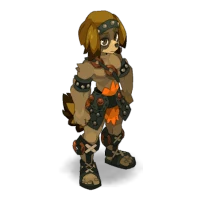
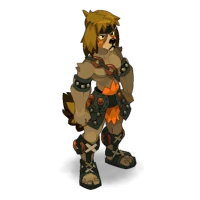
Choix de la tête à la création du héros ; têtes de l'Ouginak masculin triées
- Écran de départ et recrutement : une rangée « Tête » sous Apparence (toutes les classes sauf le Forgelance), le héros créé garde la tête choisie, et le panneau de la classe la montre.
- Ouginak masculin : retrait des 3 têtes féminines (3505, 3509, 3510) mélangées aux têtes masculines ; images locales recopiées.
- sw.js : cache des images media-v5.

Claude-Session: https://claude.ai/code/session_015qLdJVa5fZSSRyhreSRigB

diff --git a/js/looks.js b/js/looks.js
@@ -1,7 +1,7 @@
 /* idlus — apparences des héros (3.1)
    Rendus officiels des apparences DOFUS (corps de classe, têtes, couleurs) + correspondances objet → apparence établies par idlus. */
 (function (root) {
-  const CLASS_LOOKS = {"feca":{"m":{"body":10,"heads":[2012,2013,2014,2015,2016,2017,2018,2019],"colors":[15047528,7814953,14185518,4809554,5319189]},"f":{"body":11,"heads":[2020,2021,2022,2023,2024,2025,2026,2027],"colors":[15047528,7814953,14185518,4809554,5319189]}},"osa":{"m":{"body":20,"heads":[2028,2029,2030,2031,2032,2033,2034,2035],"colors":[14325094,14732959,3572096,4800822,16755757]},"f":{"body":21,"heads":[2036,2037,2038,2039,2040,2041,2042,2043],"colors":[14325094,14732959,3572096,4800822,16755757]}},"enu":{"m":{"body":30,"heads":[2044,2045,2046,2047,2048,2049,2050,2051],"colors":[13732958,15851694,3093806,14325820,7814953]},"f":{"body":31,"heads":[2052,2053,2054,2055,2056,2057,2058,2059],"colors":[16297081,15588265,3159600,14517248,7814953]}},"sram":{"m":{"body":40,"heads":[2060,2061,2062,2063,2064,2065,2066,2067],"colors":[14206857,15392448,3435918,6177568,10715217]},"f":{"body":41,"heads":[2068,2069,2070,2071,2072,2073,2074,2075],"colors":[14325094,15392448,3435918,6177568,3435918]}},"xelor":{"m":{"body":50,"heads":[2076,2077,2078,2079,2080,2081,2082,2083],"colors":[8550749,15782577,1923718,6700064,15042816]},"f":{"body":51,"heads":[2084,2085,2086,2087,2088,2089,2090,2091],"colors":[8550749,14533780,1923718,6700064,15042816]}},"eca":{"m":{"body":60,"heads":[2092,2093,2094,2095,2096,2097,2098,2099],"colors":[14732959,15173176,15690532,5478807,7687730]},"f":{"body":61,"heads":[2100,2101,2102,2103,2104,2105,2106,2107],"colors":[14732959,15173176,15690532,5478807,7687730]}},"eni":{"m":{"body":70,"heads":[2108,2109,2110,2111,2112,2113,2114,2115],"colors":[14325094,7814953,13997612,4739655,6833937]},"f":{"body":71,"heads":[2116,2117,2118,2119,2120,2121,2122,2123],"colors":[15047528,14996664,14368563,14471352,9799968]}},"iop":{"m":{"body":80,"heads":[2124,2125,2126,2127,2128,2129,2130,2131],"colors":[15704172,15301153,14736065,12200764,484225]},"f":{"body":81,"heads":[2132,2133,2134,2135,2136,2137,2138,2139],"colors":[15047528,15301153,14736065,12200764,12200764]}},"cra":{"m":{"body":90,"heads":[2140,2141,2142,2143,2144,2145,2146,2147],"colors":[15047528,14383411,7696171,8675096,9392643]},"f":{"body":91,"heads":[2148,2149,2150,2151,2152,2153,2154,2155],"colors":[15047528,14383411,7696171,9392643,9392643]}},"sadi":{"m":{"body":100,"heads":[2156,2157,2158,2159,2160,2161,2162,2163],"colors":[9329441,7966996,15914657,7820329,15914657]},"f":{"body":101,"heads":[2164,2165,2166,2167,2168,2169,2170,2171],"colors":[12282670,7966996,14994072,10711608,15258276]}},"sacri":{"m":{"body":110,"heads":[2172,2173,2174,2175,2176,2177,2178,2179],"colors":[15047528,15896377,8287530,8727092,16422159]},"f":{"body":111,"heads":[2180,2181,2182,2183,2184,2185,2186,2187],"colors":[15047528,15896377,8287530,8727092,16422159]}},"panda":{"m":{"body":120,"heads":[2188,2189,2190,2191,2192,2193,2194,2195],"colors":[13418918,5329968,9904435,3423523,14533780]},"f":{"body":121,"heads":[2196,2197,2198,2199,2200,2201,2202,2203],"colors":[13418918,5329968,9904435,9904435,14533780]}},"roub":{"m":{"body":1405,"heads":[2204,2205,2206,2207,2208,2209,2210,2211],"colors":[15047528,1341042,3883833,15703040,7098924]},"f":{"body":1407,"heads":[2212,2213,2214,2215,2216,2217,2218,2219],"colors":[15047528,1341042,3883833,15703040,7098924]}},"zobal":{"m":{"body":1437,"heads":[2220,2221,2222,2223,2224,2225,2226,2227],"colors":[15572842,9836073,4863523,1855824,11839343]},"f":{"body":1438,"heads":[2228,2229,2230,2231,2232,2233,2234,2235],"colors":[15572842,9836073,4863523,1855824,11839343]}},"steam":{"m":{"body":1663,"heads":[2236,2237,2238,2239,2240,2241,2242,2243],"colors":[14785388,15060409,3882547,11430949,10984301]},"f":{"body":1664,"heads":[2244,2245,2246,2247,2248,2249,2250,2251],"colors":[14785388,15060409,3882547,11430949,10984301]}},"elio":{"m":{"body":3179,"heads":[3183,3184,3185,3186,3187,3188,3189,3190],"colors":[16112841,10072765,8211000,16765866,2388929]},"f":{"body":3180,"heads":[3199,3200,3201,3202,3203,3204,3205,3206],"colors":[16112841,10072765,8211000,16765866,2388929]}},"hupper":{"m":{"body":3285,"heads":[3289,3290,3291,3292,3293,3294,3295,3296],"colors":[16104582,16439198,2663850,15071441,16643820]},"f":{"body":3286,"heads":[3297,3298,3299,3300,3301,3302,3303,3304],"colors":[16104582,16439198,2663850,13426363,15987438]}},"ougi":{"m":{"body":3498,"heads":[3504,3505,3506,3507,3508,3509,3510,3511],"colors":[9795658,9989653,8077087,4081977,12868619]},"f":{"body":3499,"heads":[3526,3527],"colors":[9598537,13012508,8077087,4081977,9717256]}},"forge":{"m":{"body":3221,"heads":[4364,4365,4366,4367,4368,4369,4370,4371],"colors":[15047528,7814953,4276545,15325098,8885653]},"f":{"body":3633,"heads":[4363,4374,4375,4376,4377,4378,4379,4372],"colors":[15047528,7814953,4276545,15325098,8885653]}}};
+  const CLASS_LOOKS = {"feca":{"m":{"body":10,"heads":[2012,2013,2014,2015,2016,2017,2018,2019],"colors":[15047528,7814953,14185518,4809554,5319189]},"f":{"body":11,"heads":[2020,2021,2022,2023,2024,2025,2026,2027],"colors":[15047528,7814953,14185518,4809554,5319189]}},"osa":{"m":{"body":20,"heads":[2028,2029,2030,2031,2032,2033,2034,2035],"colors":[14325094,14732959,3572096,4800822,16755757]},"f":{"body":21,"heads":[2036,2037,2038,2039,2040,2041,2042,2043],"colors":[14325094,14732959,3572096,4800822,16755757]}},"enu":{"m":{"body":30,"heads":[2044,2045,2046,2047,2048,2049,2050,2051],"colors":[13732958,15851694,3093806,14325820,7814953]},"f":{"body":31,"heads":[2052,2053,2054,2055,2056,2057,2058,2059],"colors":[16297081,15588265,3159600,14517248,7814953]}},"sram":{"m":{"body":40,"heads":[2060,2061,2062,2063,2064,2065,2066,2067],"colors":[14206857,15392448,3435918,6177568,10715217]},"f":{"body":41,"heads":[2068,2069,2070,2071,2072,2073,2074,2075],"colors":[14325094,15392448,3435918,6177568,3435918]}},"xelor":{"m":{"body":50,"heads":[2076,2077,2078,2079,2080,2081,2082,2083],"colors":[8550749,15782577,1923718,6700064,15042816]},"f":{"body":51,"heads":[2084,2085,2086,2087,2088,2089,2090,2091],"colors":[8550749,14533780,1923718,6700064,15042816]}},"eca":{"m":{"body":60,"heads":[2092,2093,2094,2095,2096,2097,2098,2099],"colors":[14732959,15173176,15690532,5478807,7687730]},"f":{"body":61,"heads":[2100,2101,2102,2103,2104,2105,2106,2107],"colors":[14732959,15173176,15690532,5478807,7687730]}},"eni":{"m":{"body":70,"heads":[2108,2109,2110,2111,2112,2113,2114,2115],"colors":[14325094,7814953,13997612,4739655,6833937]},"f":{"body":71,"heads":[2116,2117,2118,2119,2120,2121,2122,2123],"colors":[15047528,14996664,14368563,14471352,9799968]}},"iop":{"m":{"body":80,"heads":[2124,2125,2126,2127,2128,2129,2130,2131],"colors":[15704172,15301153,14736065,12200764,484225]},"f":{"body":81,"heads":[2132,2133,2134,2135,2136,2137,2138,2139],"colors":[15047528,15301153,14736065,12200764,12200764]}},"cra":{"m":{"body":90,"heads":[2140,2141,2142,2143,2144,2145,2146,2147],"colors":[15047528,14383411,7696171,8675096,9392643]},"f":{"body":91,"heads":[2148,2149,2150,2151,2152,2153,2154,2155],"colors":[15047528,14383411,7696171,9392643,9392643]}},"sadi":{"m":{"body":100,"heads":[2156,2157,2158,2159,2160,2161,2162,2163],"colors":[9329441,7966996,15914657,7820329,15914657]},"f":{"body":101,"heads":[2164,2165,2166,2167,2168,2169,2170,2171],"colors":[12282670,7966996,14994072,10711608,15258276]}},"sacri":{"m":{"body":110,"heads":[2172,2173,2174,2175,2176,2177,2178,2179],"colors":[15047528,15896377,8287530,8727092,16422159]},"f":{"body":111,"heads":[2180,2181,2182,2183,2184,2185,2186,2187],"colors":[15047528,15896377,8287530,8727092,16422159]}},"panda":{"m":{"body":120,"heads":[2188,2189,2190,2191,2192,2193,2194,2195],"colors":[13418918,5329968,9904435,3423523,14533780]},"f":{"body":121,"heads":[2196,2197,2198,2199,2200,2201,2202,2203],"colors":[13418918,5329968,9904435,9904435,14533780]}},"roub":{"m":{"body":1405,"heads":[2204,2205,2206,2207,2208,2209,2210,2211],"colors":[15047528,1341042,3883833,15703040,7098924]},"f":{"body":1407,"heads":[2212,2213,2214,2215,2216,2217,2218,2219],"colors":[15047528,1341042,3883833,15703040,7098924]}},"zobal":{"m":{"body":1437,"heads":[2220,2221,2222,2223,2224,2225,2226,2227],"colors":[15572842,9836073,4863523,1855824,11839343]},"f":{"body":1438,"heads":[2228,2229,2230,2231,2232,2233,2234,2235],"colors":[15572842,9836073,4863523,1855824,11839343]}},"steam":{"m":{"body":1663,"heads":[2236,2237,2238,2239,2240,2241,2242,2243],"colors":[14785388,15060409,3882547,11430949,10984301]},"f":{"body":1664,"heads":[2244,2245,2246,2247,2248,2249,2250,2251],"colors":[14785388,15060409,3882547,11430949,10984301]}},"elio":{"m":{"body":3179,"heads":[3183,3184,3185,3186,3187,3188,3189,3190],"colors":[16112841,10072765,8211000,16765866,2388929]},"f":{"body":3180,"heads":[3199,3200,3201,3202,3203,3204,3205,3206],"colors":[16112841,10072765,8211000,16765866,2388929]}},"hupper":{"m":{"body":3285,"heads":[3289,3290,3291,3292,3293,3294,3295,3296],"colors":[16104582,16439198,2663850,15071441,16643820]},"f":{"body":3286,"heads":[3297,3298,3299,3300,3301,3302,3303,3304],"colors":[16104582,16439198,2663850,13426363,15987438]}},"ougi":{"m":{"body":3498,"heads":[3504,3506,3507,3508,3511],"colors":[9795658,9989653,8077087,4081977,12868619]},"f":{"body":3499,"heads":[3526,3527],"colors":[9598537,13012508,8077087,4081977,9717256]}},"forge":{"m":{"body":3221,"heads":[4364,4365,4366,4367,4368,4369,4370,4371],"colors":[15047528,7814953,4276545,15325098,8885653]},"f":{"body":3633,"heads":[4363,4374,4375,4376,4377,4378,4379,4372],"colors":[15047528,7814953,4276545,15325098,8885653]}}};
   /* coiffes et capes dont l'apparence est connue (les autres n'apparaissent pas encore sur le héros) */
   const ITEM_SKINS = {"i8534":191,"i937":212,"i8232":167,"i2473":124,"i8231":166,"i8236":168,"i8233":170,"i8235":169,"i8234":171,"i773":88,"i776":92,"i6916":319,"i947":217,"i744":84,"i1021":1171,"i2414":119,"i6720":131,"i8258":172,"i957":208,"i8112":161,"i7108":320,"i2445":122,"i2382":112,"i2412":117,"i2534":128,"i2489":125,"i1695":93,"i8247":283,"i8246":284,"i2474":242,"i8248":285,"i6917":262,"i8125":276,"i2411":239,"i6719":251,"i8259":286,"i701":226,"i10828":265,"i702":227,"i708":433,"i2641":247,"i2438":240,"i2070":249,"i7109":269,"i2095":234,"i2409":237,"i2535":245,"i6760":257,"i6991":1094,"i1908":1066,"i8304":295,"i7887":1100,"i8285":293,"i6764":428,"i8163":450,"i8845":309,"i2546":246,"i8330":416,"i8463":302,"i7151":440,"i6481":250,"i8243":280,"i8244":281,"i8245":282};
   /* palettes : la couleur 1 (peau) est conservée, les autres sont remplacées */

diff --git a/js/ui.js b/js/ui.js
@@ -446,12 +446,19 @@ function classPick(sel, sexSel) {
     return `<button class="clsbtn" style="--cc:${c.color}" data-act="startcls" data-cls="${id}" aria-pressed="${sel === id}" data-tip="${h(c.desc + " — Passif : " + c.passive.name + " : " + c.passive.desc)}">
       <span class="csym">${im(symImg(id), "", c.name)}</span><b>${c.name}</b></button>`; }).join("")}</div>`;
 }
-function classInfo(id, sex) {
+function classInfo(id, sex, hd) {
   const c = CLASSES[id];
   return `<div class="clsinfo" style="--cc:${c.color}"><span class="csym">${im(symImg(id), "", c.name)}</span>
     <div class="grow"><b style="font-size:17px">${c.name}</b><div class="small muted">${h(c.desc)}</div><div class="small" style="margin-top:4px"><span class="tag soft">Passif</span> <b>${h(c.passive.name)}</b> : ${h(c.passive.desc)}</div></div>
-    ${im(lookLocal(id, sex || c.sex, 0), "clook")}</div>`;
+    ${im(lookLocal(id, sex || c.sex, hd || 0), "clook")}</div>`;
 }
+/* Choix de la tête dès la création du héros */
+function headPick(id, sex) {
+  const L = LK.CLASS_LOOKS[id]; const sx = sex === "f" ? "f" : "m"; if (!L || id === "forge" || L[sx].heads.length < 2) return "";
+  const cur = Math.min(ui.startHead || 0, L[sx].heads.length - 1);
+  return `<div class="stack" style="gap:4px"><span class="small muted">Tête</span><div class="headpick">${L[sx].heads.map((_, i) => `<button class="${cur === i ? "on" : ""}" data-act="starthead" data-v="${i}" aria-pressed="${cur === i}"><img src="${lookLocal(id, sx, i)}" alt="Tête ${i + 1}"></button>`).join("")}</div></div>`;
+}
+const startHeadOf = (id, sex) => { const L = LK.CLASS_LOOKS[id]; const n = L ? L[sex === "f" ? "f" : "m"].heads.length : 1; return id === "forge" ? 0 : Math.min(ui.startHead || 0, n - 1); };
 const hasPublicSave = () => { try { return !!localStorage.getItem("dofousxen-save"); } catch (e) { return false; } };
 function renderStart() {
   renderStatus(); renderNav();
@@ -464,8 +471,9 @@ function renderStart() {
     <div class="panel"><div class="pad stack">
       <h2>Choisissez votre premier héros</h2>
       ${classPick(ui.startCls, sex)}
-      ${classInfo(ui.startCls, sex)}
+      ${classInfo(ui.startCls, sex, startHeadOf(ui.startCls, sex))}
       <div class="row"><span class="small muted">Apparence</span><span class="seg">${[["m", "Masculin"], ["f", "Féminin"]].map(([v, n]) => `<button data-act="startsex" data-v="${v}" aria-pressed="${sex === v}">${n}</button>`).join("")}</span></div>
+      ${headPick(ui.startCls, sex)}
       <label class="stack" style="gap:4px"><span class="small muted">Nom du héros</span><input type="text" id="startName" maxlength="20" value="${h(ui.startName || D.NAMES[Math.floor(Math.random() * D.NAMES.length)])}"></label>
       <div><button class="btn primary" data-act="startgame">Commencer l'aventure</button></div>
     </div></div>
@@ -1739,8 +1747,9 @@ function recruitSheet() {
   const cost = E.recruitCost(S.chars.length + 1); const top = Math.max(...S.chars.map((c) => c.lvl)); const sex = ui.startSex || CLASSES[ui.startCls].sex;
   openSheet(`<h2>Recruter un héros</h2>
     <p class="small muted">Coût : <b>${cost ? fmt(cost) + " kamas" : "gratuit"}</b> (vous avez ${fmt(S.kamas)}). La recrue arrive au niveau ${Math.max(1, Math.floor(top / 2))}. Plus l'équipe est grande, plus le bonus Esprit Libre diminue.</p>
-    ${classPick(ui.startCls, sex)}${classInfo(ui.startCls, sex)}
+    ${classPick(ui.startCls, sex)}${classInfo(ui.startCls, sex, startHeadOf(ui.startCls, sex))}
     <div class="row"><span class="small muted">Apparence</span><span class="seg">${[["m", "Masculin"], ["f", "Féminin"]].map(([v, n]) => `<button data-act="startsex" data-v="${v}" aria-pressed="${sex === v}">${n}</button>`).join("")}</span></div>
+      ${headPick(ui.startCls, sex)}
     <label class="stack" style="gap:4px"><span class="small muted">Nom</span><input type="text" id="recName" maxlength="20" value="${h(ui.recName || D.NAMES[Math.floor(Math.random() * D.NAMES.length)])}"></label>
     <div class="row"><button class="btn primary" data-act="recruit" ${S.kamas < cost ? "disabled" : ""}>Recruter</button><button class="btn" data-act="closesheet">Annuler</button></div>`);
 }
@@ -1956,9 +1965,10 @@ document.addEventListener("click", (ev) => {
   if (t.tagName === "SELECT" || (t.tagName === "INPUT" && t.type !== "checkbox")) return;
   const d = t.dataset; const c = ui.cid && S ? char(ui.cid) : null;
   switch (a) {
-    case "startcls": { const n = $("#startName") || $("#recName"); if (n) { if (S) ui.recName = n.value; else ui.startName = n.value; } ui.startCls = d.cls; ui.startSex = null; if (!S) renderStart(); else recruitSheet(); return; }
-    case "startsex": { const n = $("#startName") || $("#recName"); if (n) { if (S) ui.recName = n.value; else ui.startName = n.value; } ui.startSex = d.v; if (!S) renderStart(); else recruitSheet(); return; }
-    case "startgame": { const name = ($("#startName").value || "").trim() || "Aventurier"; S = E.newState(name.slice(0, 20), ui.startCls); S.seenVersion = GAME_VERSION; S.chars[0].sex = ui.startSex || CLASSES[ui.startCls].sex; setTheme(document.documentElement.dataset.theme || "dark"); ui.cid = S.chars[0].id; ui.tab = "world"; dirty = true; saveNow(); render(); toast("Choisissez une zone pour partir chasser !"); return; }
+    case "startcls": { const n = $("#startName") || $("#recName"); if (n) { if (S) ui.recName = n.value; else ui.startName = n.value; } ui.startCls = d.cls; ui.startSex = null; ui.startHead = 0; if (!S) renderStart(); else recruitSheet(); return; }
+    case "startsex": { const n = $("#startName") || $("#recName"); if (n) { if (S) ui.recName = n.value; else ui.startName = n.value; } ui.startSex = d.v; ui.startHead = 0; if (!S) renderStart(); else recruitSheet(); return; }
+    case "starthead": { const n = $("#startName") || $("#recName"); if (n) { if (S) ui.recName = n.value; else ui.startName = n.value; } ui.startHead = +d.v; if (!S) renderStart(); else recruitSheet(); return; }
+    case "startgame": { const name = ($("#startName").value || "").trim() || "Aventurier"; S = E.newState(name.slice(0, 20), ui.startCls); S.seenVersion = GAME_VERSION; S.chars[0].sex = ui.startSex || CLASSES[ui.startCls].sex; S.chars[0].head = startHeadOf(ui.startCls, S.chars[0].sex); setTheme(document.documentElement.dataset.theme || "dark"); ui.cid = S.chars[0].id; ui.tab = "world"; dirty = true; saveNow(); render(); toast("Choisissez une zone pour partir chasser !"); return; }
     case "settheme": S.settings.theme = d.v; setTheme(); optionsSheet(); render(); return;
     case "setreduced": S.settings.reduced = d.v === "1"; setTheme(); optionsSheet(); render(); return;
     case "setcele": S.settings.cele = d.v === "1"; dirty = true; optionsSheet(); return;
@@ -2102,7 +2112,7 @@ document.addEventListener("click", (ev) => {
     case "gdel": E.deleteGear(S, c.id, +d.i); break;
     case "pzonedel": E.setZonePreset(S, c.id, d.z, null); break;
     case "recruitsheet": recruitSheet(); return;
-    case "recruit": { const r = E.recruit(S, ui.startCls, ($("#recName").value || "").trim().slice(0, 20)); if (r) { toast(r); return; } const nc = S.chars[S.chars.length - 1]; nc.sex = ui.startSex || CLASSES[ui.startCls].sex; ui.recName = ""; closeSheet(); ui.cid = nc.id; break; }
+    case "recruit": { const r = E.recruit(S, ui.startCls, ($("#recName").value || "").trim().slice(0, 20)); if (r) { toast(r); return; } const nc = S.chars[S.chars.length - 1]; nc.sex = ui.startSex || CLASSES[ui.startCls].sex; nc.head = startHeadOf(ui.startCls, nc.sex); ui.startHead = 0; ui.recName = ""; closeSheet(); ui.cid = nc.id; break; }
     case "invtab": ui.inv = d.v; ui.newResDone = false; break;
     case "givesheet": giveSheet(+d.uid); return;
     case "giveto": { const r = E.equip(S, +d.id, ui.giveTo); if (r) { toast(r); return; } closeSheet(); toast("Objet équipé."); break; }

diff --git a/sw.js b/sw.js
@@ -4,7 +4,7 @@
 const VERSION = "3.4.0";
 /* La version de test (/beta/) a ses propres caches : chaque service worker ne nettoie que les siens. */
 const P = /\/beta\/$/.test(self.registration.scope) ? "idlus-beta-" : "idlus-";
-const CORE = P + "core-" + VERSION, MEDIA = P + "media-v4";
+const CORE = P + "core-" + VERSION, MEDIA = P + "media-v5";
 const PRECACHE = ["./", "index.html", "css/style.css", "js/gamedata.js", "js/looks.js", "js/data.js", "js/engine.js", "js/systems.js", "js/ui.js", "manifest.webmanifest", "icons/icon-192.png", "icons/icon-512.png"];
 self.addEventListener("install", (e) => { e.waitUntil(caches.open(CORE).then((c) => c.addAll(PRECACHE)).then(() => self.skipWaiting())); });
 self.addEventListener("activate", (e) => {
